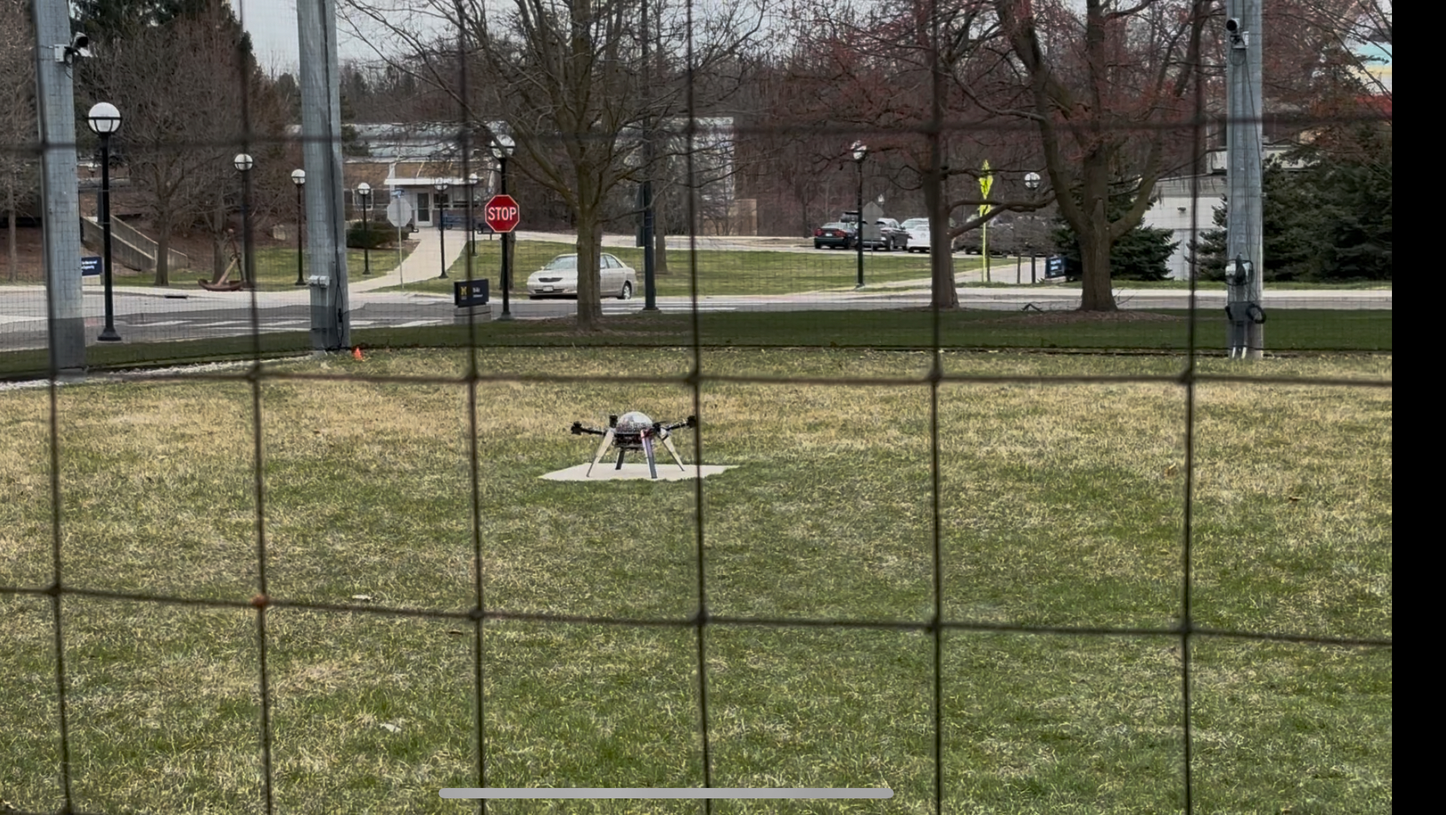
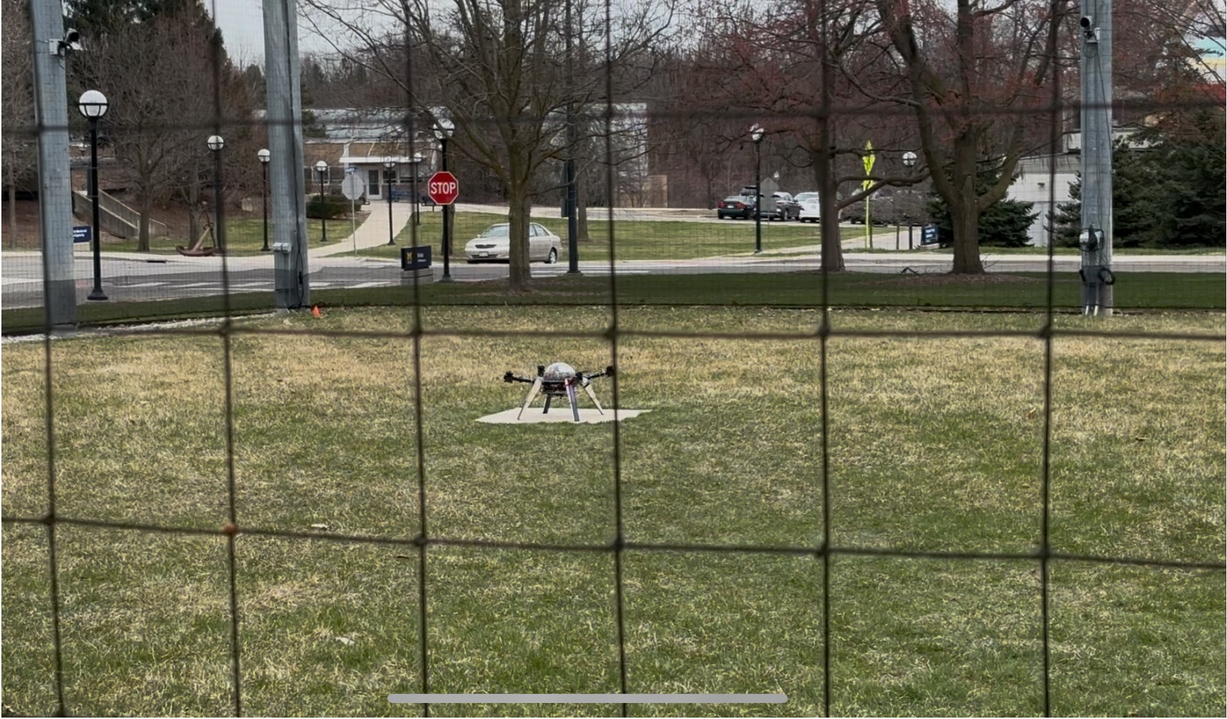
Updated home page to be more engaging

diff --git a/index.html b/index.html
@@ -15,6 +15,10 @@
             </a> 
         </div>
 
+        <div style="font-size: 4em; color: black; font-weight: bold;">
+            Dervin Tian
+        </div>
+
         <div class="right-links">
             <a href="https://github.com/DervinTian" class="github-link" target="_blank">
                 <img src="/images/github-logo.png" class="github-pic" alt="Github Logo" width="50" height="50">
@@ -29,26 +33,26 @@
     </header>
 
     <body>
-        <div class="page-header">
-            Dervin Tian
-        </div>
+        <div class="header" style="display: flex; flex-direction: column;">
 
-        <div class="headshot-container">
-            <img src="/images/TIAN_DERVIN.JPG" class="headshot" alt="Dervin Tian Headshot" width="400" height="400">
-        </div>
+            <div class="video-container" style="z-index: 1;">
+                <div class="headshot-container">
+                    <img src="/images/TIAN_DERVIN.JPG" class="headshot" alt="Dervin Tian Headshot" width="400" height="400">
+                </div>
+            </div>
 
-        <div class="bio">
-            Hello! My name is Dervin and I am currently a Junior at the University of Michigan studying data science.  <br>
-            I'm super passionate about utilizing software to solve problems, whether it be AI related, data related, or something else that is completely spontaneous! <br>
-            <br>
-            I am always down to try new things and love experimenting with new technologies! <br>
-            <br>
+            <div class="bio">
+                Hello! My name is Dervin and I am currently a Junior at the University of Michigan studying data science.  <br>
+                I'm super passionate about utilizing software to solve problems, whether it be AI related, data related, or something else that is completely spontaneous! <br>
+                I am always down to try new things and love experimenting with new technologies! <br>
+                <br>
 
-            You can contact me here: dervint@umich.edu
+                You can contact me here: dervint@umich.edu
+            </div>
         </div>
 
         <div class="about-me">
-            Learn about me!
+            Check Out my Best Moments from 2025!
         </div>
 
         <div class="carousel">
@@ -135,41 +139,44 @@
         </div>
 
         <div class="links-container">
+            <div class="content-box" style="justify-content: flex-start; background-image: url(/images/blender-field.png); background-size: cover; background-position: center center;">
+                <a href="/highlight_experience/" style="text-decoration:none">
+                    <div class="link-box">
+                        <h1 class="link-header">
+                            Experience
+                            <p class="link-text">
+                                Check out how I became a software lead for a fleet of autonomous drones! <br>                     
+                            </p>
+                        </h1>
+                    </div>
+                </a>
+            </div>
 
+            <div class="content-box" style="justify-content: flex-end; background-image: url(/images/IMG_6806.png); background-size: cover; background-position: center center;">
+                <a href="/highlighted_project/" style="text-decoration:none;">
+                    <div class="link-box">
+                        <h1 class="link-header">
+                            Projects
+                            <p class="link-text">
+                                Check out how I was able to solve a Rubik's Cube in under a second! <br>
+                            </p>
+                        </h1>
+                    </div>
+                </a>
+            </div>
 
-            <a href="/highlight_experience/" style="text-decoration:none">
-                <div class="link-box">
-                    <h1 class="link-header">
-                        Experience
-                        <p class="link-text">
-                            Learn about all of my experiences that I have been a part of! <br>                     
-                        </p>
-                    </h1>
-                </div>
-            </a>
-
-            <a href="/highlighted_project/" style="text-decoration:none">
-                <div class="link-box">
-                    <h1 class="link-header">
-                        Projects
-                        <p class="link-text">
-                            Learn about all of my projects that I have done so far! <br>
-                        </p>
-                    </h1>
-                </div>
-
-            </a>
-
-            <a href="/highlight_for_fun/" style="text-decoration:none">
-                <div class="link-box">
-                    <h1 class="link-header">
-                        For Fun
-                        <p class="link-text">
-                            Learn about what I like to do for fun in my free time! <br> 
-                        </p>
-                    </h1>
-                </div>
-            </a>
+            <div class="content-box" style="justify-content: flex-start; background-image: url(/images/IMG_0958.jpeg); background-size: cover; background-position: center center;">
+                <a href="/highlight_for_fun/" style="text-decoration:none">
+                    <div class="link-box">
+                        <h1 class="link-header">
+                            For Fun
+                            <p class="link-text">
+                                Check out how I made my own custom movie posters from spray paint! <br> 
+                            </p>
+                        </h1>
+                    </div>
+                </a>
+            </div>
         </div>
     </body>
 

diff --git a/css/style.css b/css/style.css
@@ -33,7 +33,7 @@ a:active {
   display: flex;
   justify-content: space-between;
   width: 100%;
-  z-index: 1;
+  z-index: 2;
 }
 
 .github-pic{
@@ -55,12 +55,13 @@ a:active {
   display: flex;
   justify-content: center;
   align-items: center;
-  font-size: 22px;
+  font-size: 1.5em;
   padding-top: 50px;
   padding-bottom: 50px;
   padding-left: 200px;
   padding-right: 200px;
   text-align: center;
+  color: white;
 }
 
 .left-links{
@@ -82,14 +83,28 @@ a:active {
   padding-right: 25px;
 }
 
+.header {
+  background-image: url(/images/home-bg.png);
+  background-size: cover;
+  background-position: center top;
+}
+
 .headshot {
-  padding-top: 30px;
   border-radius: 50%;
+  width: 25vw;
+  height: auto;
+  align-items: center;
+  justify-content: center;
+  position: relative;
+  padding-top: 7em;
 }
 
 .headshot-container{
-  display: flex;
+  display: block;
   justify-content: center;
+  align-items: center;
+  position: relative;
+  padding-top: 2em;
 }
 
 .about-me{
@@ -102,6 +117,7 @@ a:active {
 .links-container {
   padding-top: 50px;
   display: flex;
+  flex-direction: column;
   justify-content: space-evenly;
   padding-bottom: 50px;
   padding-left: 30px;
@@ -137,6 +153,7 @@ a:active {
   font-size: 20px; 
   gap: 20px;
   display: flex;
+  flex-direction: row;
   align-items: center;
 }
 
@@ -271,7 +288,7 @@ a:active {
 
 .page-header-video {
   position: absolute;   
-  top: 20%;             
+  top: 30%;             
   left: 50%;            
   transform: translateX(-50%); 
   color: white;
@@ -289,12 +306,15 @@ a:active {
   text-shadow: 0 0 5px rgba(0,0,0,0.5); /* optional: makes text readable */
   align-items: center;
   justify-content: center;
-  padding-top: 2em; padding-bottom: 2em;
+  padding-top: 3em; padding-bottom: 2em;
 }
 
 .video-container {
   display: flex;
+  flex-direction: column;
   width: 100vw;
+  justify-content: center;
+  align-items: center;
   position: relative;
   z-index: -1;
 }
@@ -400,6 +420,18 @@ a:active {
   text-shadow: 0 0 5px rgba(0,0,0,0.5); /* optional: makes text readable */
   justify-content: left;
   padding-left: 0.4em;
+  padding-bottom: 0.5em;
+}
+
+.page-header-video {
+  position: absolute;   
+  top: 20%;             
+  left: 50%;            
+  transform: translateX(-50%); 
+  color: white;
+  font-size: 4rem;
+  font-weight: bold;
+  text-shadow: 0 0 5px rgba(0,0,0,0.5); /* optional: makes text readable */
 }
 
   .highlight-project {

diff --git a/highlighted_project/index.html b/highlighted_project/index.html
@@ -69,7 +69,7 @@
             </div>
 
             <div class="video-container" style="position: relative; height: 65vh; width: auto;">
-                <video src="/images/sped-up-clip.mp4" style="max-width: 100vw; flex-wrap: wrap;" autoplay muted loop playsinline></video>
+                <video src="/images/sped-up-clip.mp4" style="height: 100%; width: auto; max-width: 50vw;" autoplay muted loop playsinline></video>
 
                 <a href="/projects/" style="text-decoration:none"></a>
             </div>

diff --git a/experience/index.html b/experience/index.html
@@ -50,14 +50,6 @@
             </div>
         </div>
 
-        <!-- <div class="video-container">
-            <img src="/images/experience_carousel/experience-thumbnail-6.png" style="width: 100vw; height: auto;"></video>
-
-            <div class="page-header-video">
-                Experience
-            </div>
-        </div> -->
-
         <div class="subpage-content-container">
 
             <div class="content-box">

diff --git a/projects/index.html b/projects/index.html
@@ -37,7 +37,7 @@
     <body>
 
         <div class="video-container">
-            <img src="/images/projects-thumbnail.png" style="width: 100vw; height: auto;"></video>
+            <img src="/images/projects-thumbnail.png" style="width: 100vw; height: auto;">
 
             <div class="page-header-video">
                 Projects

diff --git a/highlight_experience/index.html b/highlight_experience/index.html
@@ -36,7 +36,7 @@
 
     <body style="background-color: black;">
 
-        <div class="page-header-highlight-video" style="padding-bottom: 1em;">
+        <div class="page-header-highlight-video">
             Highlighted Experience: 
             MAAV
         </div>

diff --git a/highlight_for_fun/index.html b/highlight_for_fun/index.html
@@ -71,7 +71,7 @@
                 </div>
 
                 <div class="round-button">
-                    <a href="/for_fun/" >View All</a>
+                    <a href="/for_fun/" >View All Moments</a>
                 </div>
             </div>
         </div>
